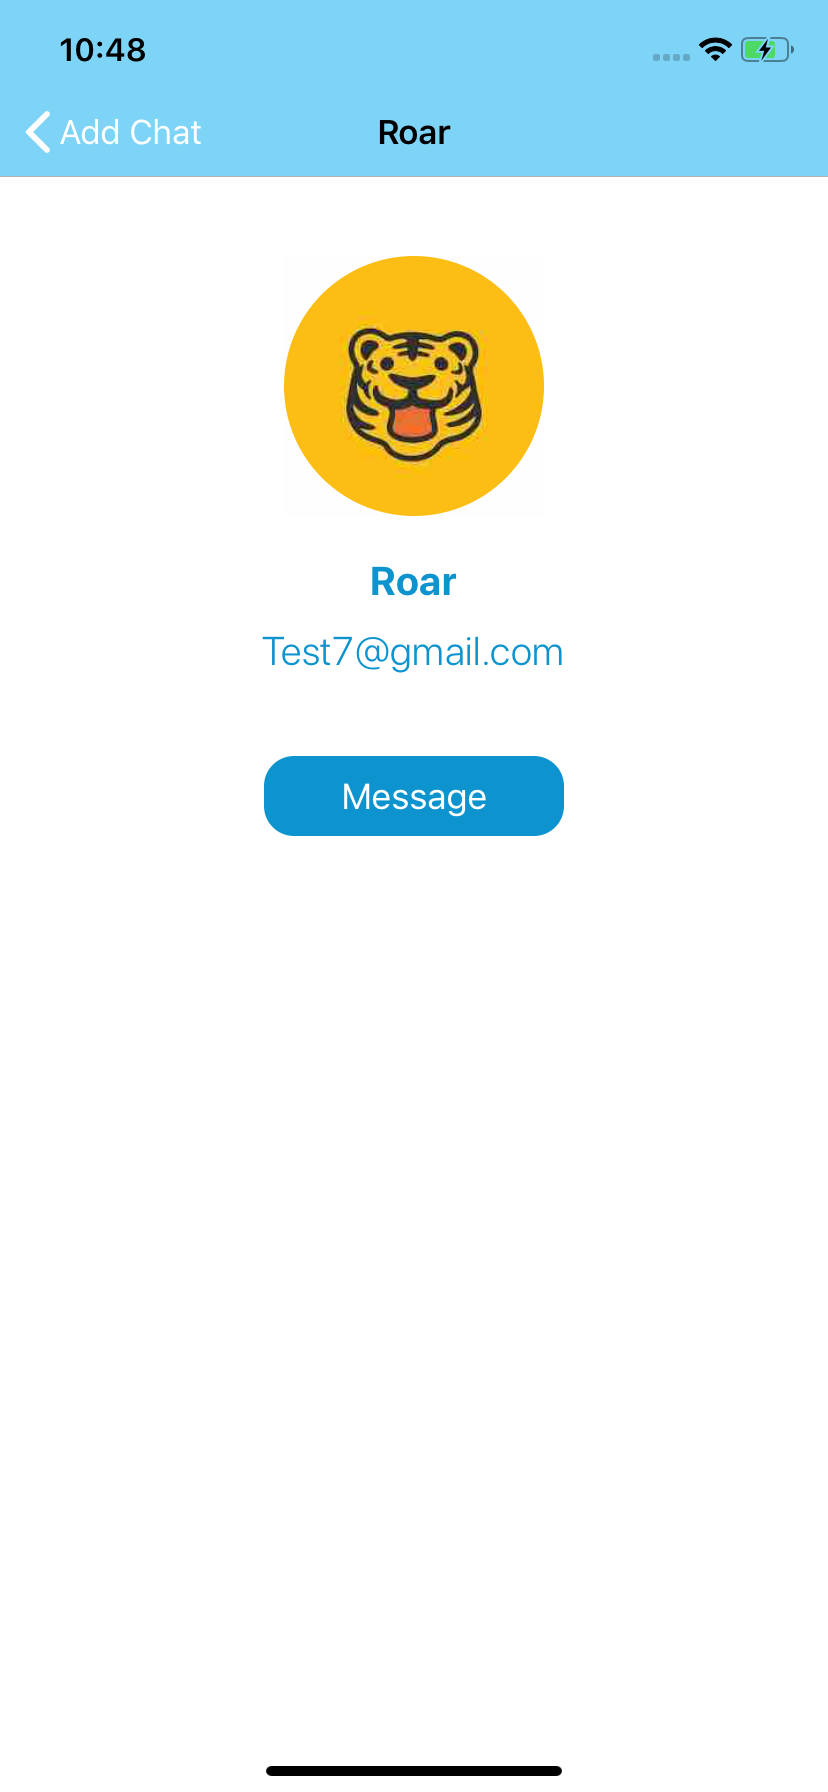
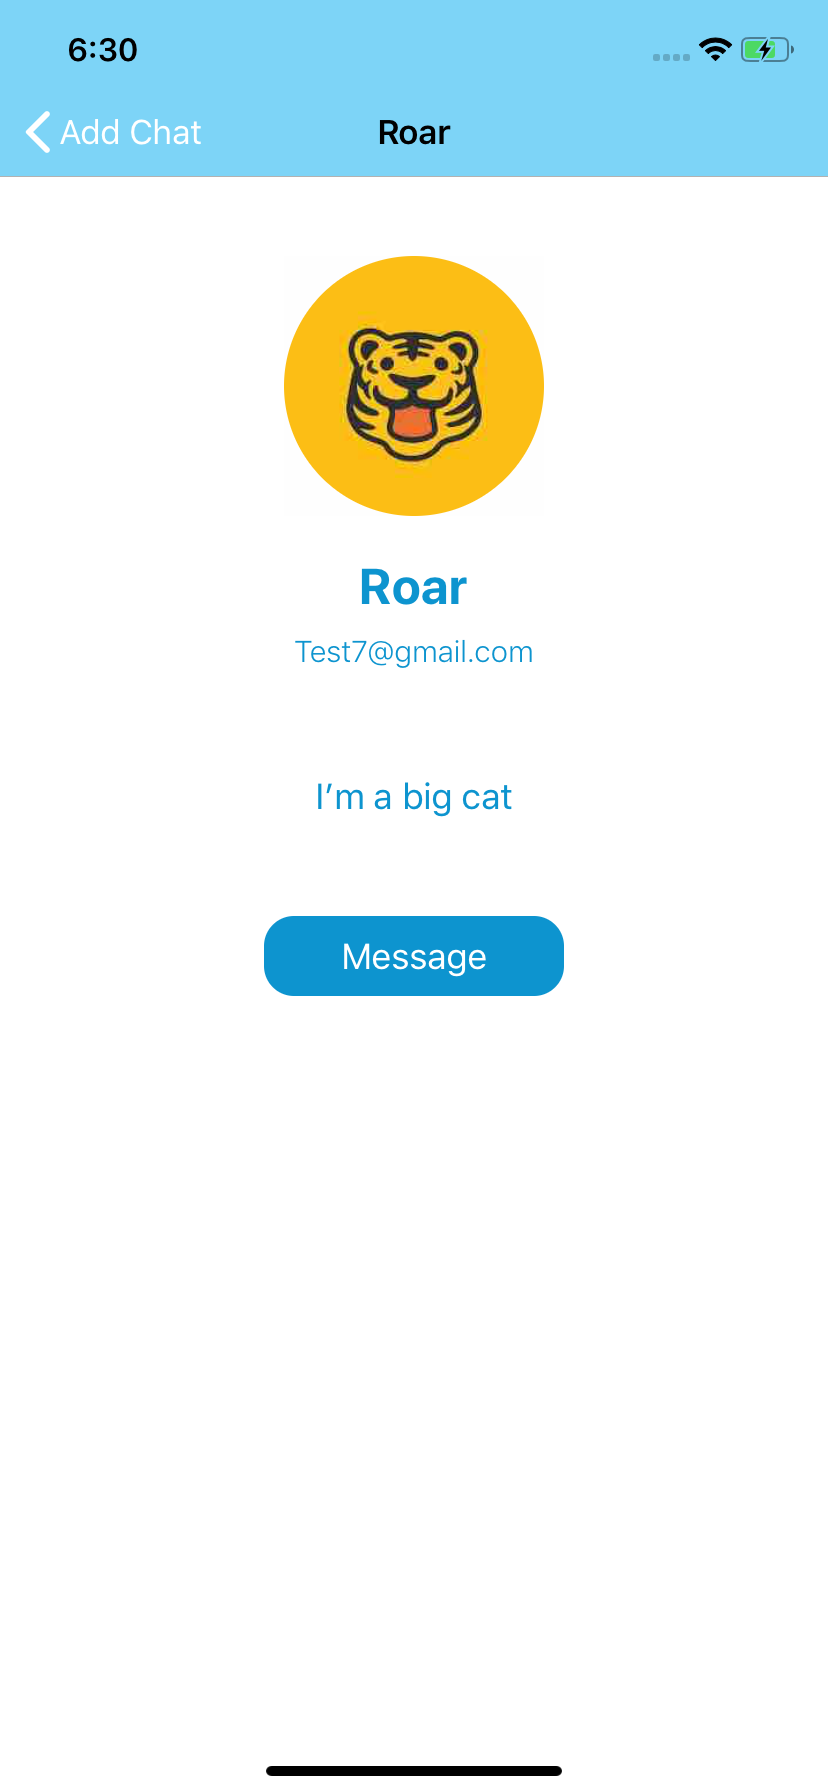
add bio and screenshots

diff --git a/Breeze/Controllers/EditProfileViewController.swift b/Breeze/Controllers/EditProfileViewController.swift
@@ -13,8 +13,10 @@ class EditProfileViewController: UIViewController {
     
     var profilePicView: UIImageView!
     var usernameLabel: UILabel!
-    var emailLabel: UILabel!
     var usernameTextField: UITextField!
+    var bioLabel: UILabel!
+    var bioTextField: UITextField!
+    var emailLabel: UILabel!
     var userEmailLabel: UILabel!
     var profilePicButton: UIButton!
     var logoutButton: UIButton!
@@ -25,6 +27,7 @@ class EditProfileViewController: UIViewController {
     
     var originalProfilePicData: Data?
     var originalUsername: String!
+    var originalBio: String!
     
     var currentUser: User!
     let currentUserUid = Auth.auth().currentUser?.uid
@@ -48,7 +51,7 @@ class EditProfileViewController: UIViewController {
         self.navigationItem.leftBarButtonItem = cancelBarItem
         
         doneButton = UIButton(type: .custom)
-        doneButton.setTitle("Done", for: .normal)
+        doneButton.setTitle("Save", for: .normal)
         doneButton.setTitleColor(.darkerBlue, for: .normal)
         doneButton.titleLabel?.font = .boldSystemFont(ofSize: 20)
         doneButton.addTarget(self, action: #selector(donePressed), for: .touchUpInside)
@@ -67,21 +70,35 @@ class EditProfileViewController: UIViewController {
         usernameLabel.text = "Username"
         usernameLabel.textColor = .darkGray
         usernameLabel.textAlignment = .left
-        usernameLabel.font = .systemFont(ofSize: 18, weight: .regular)
+        usernameLabel.font = .systemFont(ofSize: 16, weight: .regular)
         view.addSubview(usernameLabel)
         
         usernameTextField = UITextField()
         usernameTextField.textColor = .darkerBlue
         usernameTextField.clearButtonMode = .whileEditing
-        usernameTextField.font = .systemFont(ofSize: 20, weight: .bold)
+        usernameTextField.font = .systemFont(ofSize: 18, weight: .bold)
         usernameTextField.underline()
         view.addSubview(usernameTextField)
+        
+        bioLabel = UILabel()
+        bioLabel.text = "Bio"
+        bioLabel.textColor = .darkGray
+        bioLabel.textAlignment = .left
+        bioLabel.font = .systemFont(ofSize: 16, weight: .regular)
+        view.addSubview(bioLabel)
+        
+        bioTextField = UITextField()
+        bioTextField.textColor = .darkerBlue
+        bioTextField.clearButtonMode = .whileEditing
+        bioTextField.font = .systemFont(ofSize: 18, weight: .regular)
+        bioTextField.underline()
+        view.addSubview(bioTextField)
         
         emailLabel = UILabel()
         emailLabel.text = "Email"
         emailLabel.textColor = .darkGray
         emailLabel.textAlignment = .left
-        emailLabel.font = .systemFont(ofSize: 18, weight: .regular)
+        emailLabel.font = .systemFont(ofSize: 16, weight: .regular)
         view.addSubview(emailLabel)
         
         userEmailLabel = UILabel()
@@ -133,21 +150,35 @@ class EditProfileViewController: UIViewController {
             make.top.equalTo(profilePicButton.snp.bottom).offset(40)
             make.left.equalTo(view).offset(40)
             make.height.equalTo(30)
-            make.width.equalTo(100)
+            make.width.equalTo(80)
         }
         
         usernameTextField.snp.makeConstraints { make in
             make.top.equalTo(profilePicButton.snp.bottom).offset(40)
-            make.left.equalTo(usernameLabel.snp.right).offset(10)
+            make.left.equalTo(usernameLabel.snp.right).offset(5)
+            make.height.equalTo(30)
+            make.right.equalTo(view).offset(-40)
+        }
+        
+        bioLabel.snp.makeConstraints { make in
+            make.top.equalTo(usernameLabel.snp.bottom).offset(15)
+            make.left.equalTo(view).offset(40)
+            make.height.equalTo(30)
+            make.width.equalTo(80)
+        }
+        
+        bioTextField.snp.makeConstraints { make in
+            make.top.equalTo(bioLabel)
+            make.left.equalTo(usernameTextField)
             make.height.equalTo(30)
             make.right.equalTo(view).offset(-40)
         }
         
         emailLabel.snp.makeConstraints { make in
-            make.top.equalTo(usernameLabel.snp.bottom).offset(15)
+            make.top.equalTo(bioLabel.snp.bottom).offset(15)
             make.left.equalTo(view).offset(40)
             make.height.equalTo(30)
-            make.width.equalTo(100)
+            make.width.equalTo(80)
         }
         
         userEmailLabel.snp.makeConstraints { make in
@@ -186,6 +217,10 @@ class EditProfileViewController: UIViewController {
                         self.originalProfilePicData = image.pngData()
                     }
                 }
+                if let bio = self.currentUser.bio {
+                    self.originalBio = bio
+                    self.bioTextField.text = bio
+                }
                 self.originalUsername = self.currentUser.username
                 self.usernameTextField.text = self.currentUser.username
                 self.userEmailLabel.text = self.currentUser.email
@@ -215,13 +250,20 @@ class EditProfileViewController: UIViewController {
             print ("username unchanged")
         }
         
+        if bioTextField.text != originalBio {
+            let bioRef = Database.database().reference().child("users").child(uid).child("bio")
+            bioRef.setValue(bioTextField.text)
+        } else {
+            print ("bio unchanged")
+        }
+        
         let imageData = profilePicView.image?.pngData()
-        if imageData != originalProfilePicData, let image = profilePicView.image, let imageUrl = currentUser.profilePic {
+        if imageData != originalProfilePicData, let image = profilePicView.image {
             uploadImageToFirebase(image: image)
-            deleteImageFromStorage(imageUrl: imageUrl)
         } else {
             print ("profile pic unchanged")
         }
+        
         self.navigationController?.popViewController(animated: true)
     }
     
@@ -247,17 +289,6 @@ class EditProfileViewController: UIViewController {
                         }
                     })
                 }
-            }
-        }
-    }
-    
-    private func deleteImageFromStorage(imageUrl: String) {
-        let imageStorageRef = Storage.storage().reference().child(imageUrl)
-        imageStorageRef.delete { (error) in
-            if error != nil {
-                print (error!)
-            } else {
-                print ("image deleted")
             }
         }
     }

diff --git a/Breeze/Controllers/UserProfileViewController.swift b/Breeze/Controllers/UserProfileViewController.swift
@@ -15,6 +15,7 @@ class UserProfileViewController: UIViewController {
 
     var profilePicView: UIImageView!
     var usernameLabel: UILabel!
+    var bioLabel: UILabel!
     var emailLabel: UILabel!
     var messageButton: UIButton!
     
@@ -50,14 +51,22 @@ class UserProfileViewController: UIViewController {
         usernameLabel = UILabel()
         usernameLabel.textColor = .darkerBlue
         usernameLabel.textAlignment = .center
-        usernameLabel.font = .systemFont(ofSize: 20, weight: .bold)
+        usernameLabel.font = .systemFont(ofSize: 25, weight: .bold)
         view.addSubview(usernameLabel)
         
         emailLabel = UILabel()
         emailLabel.textColor = .darkerBlue
         emailLabel.textAlignment = .center
-        emailLabel.font = .systemFont(ofSize: 20, weight: .light)
+        emailLabel.font = .systemFont(ofSize: 15, weight: .light)
         view.addSubview(emailLabel)
+        
+        bioLabel = UILabel()
+        bioLabel.sizeToFit()
+        bioLabel.numberOfLines = 0
+        bioLabel.textColor = .darkerBlue
+        bioLabel.textAlignment = .center
+        bioLabel.font = .systemFont(ofSize: 18, weight: .regular)
+        view.addSubview(bioLabel)
         
         messageButton = UIButton()
         messageButton.setTitle("Message", for: .normal)
@@ -83,20 +92,27 @@ class UserProfileViewController: UIViewController {
         usernameLabel.snp.makeConstraints { make in
             make.centerX.equalTo(view)
             make.top.equalTo(profilePicView.snp.bottom).offset(20)
-            make.height.equalTo(25)
+            make.height.equalTo(30)
             make.width.equalTo(200)
         }
         
         emailLabel.snp.makeConstraints { make in
             make.centerX.equalTo(view)
-            make.top.equalTo(usernameLabel.snp.bottom).offset(10)
+            make.top.equalTo(usernameLabel.snp.bottom).offset(5)
             make.height.equalTo(25)
             make.width.equalTo(300)
         }
         
+        bioLabel.snp.makeConstraints { make in
+            make.centerX.equalTo(view)
+            make.top.equalTo(emailLabel.snp.bottom).offset(10)
+            make.width.equalTo(300)
+            make.height.equalTo(100)
+        }
+        
         messageButton.snp.makeConstraints { make in
             make.centerX.equalTo(view)
-            make.top.equalTo(emailLabel.snp.bottom).offset(40)
+            make.top.equalTo(bioLabel.snp.bottom).offset(10)
             make.width.equalTo(150)
             make.height.equalTo(40)
         }
@@ -110,6 +126,9 @@ class UserProfileViewController: UIViewController {
                 let user = User(dictionary: userDict)
                 if let url = user.profilePic {
                     self.profilePicView.getImagesFromUrl(url: url)
+                }
+                if let bio = user.bio {
+                    self.bioLabel.text = bio
                 }
                 self.usernameLabel.text = user.username
                 self.emailLabel.text = user.email

diff --git a/Breeze/Models/User.swift b/Breeze/Models/User.swift
@@ -13,11 +13,13 @@ class User {
     var username: String?
     var profilePic: String?
     var email: String?
+    var bio: String? 
     
     init(dictionary:[String:Any]) {
         self.username = dictionary["username"] as? String
         self.profilePic = dictionary["profilePic"] as? String
         self.email = dictionary["email"] as? String
+        self.bio = dictionary["bio"] as? String
     }
     
 }
